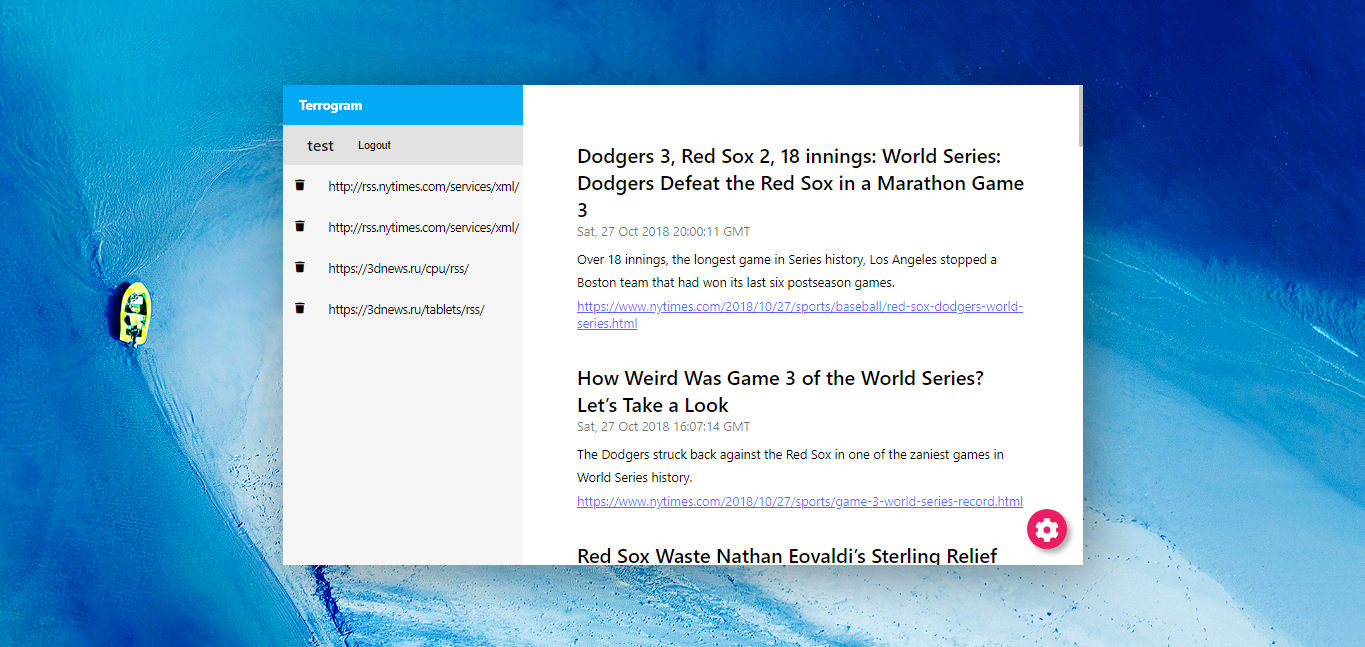
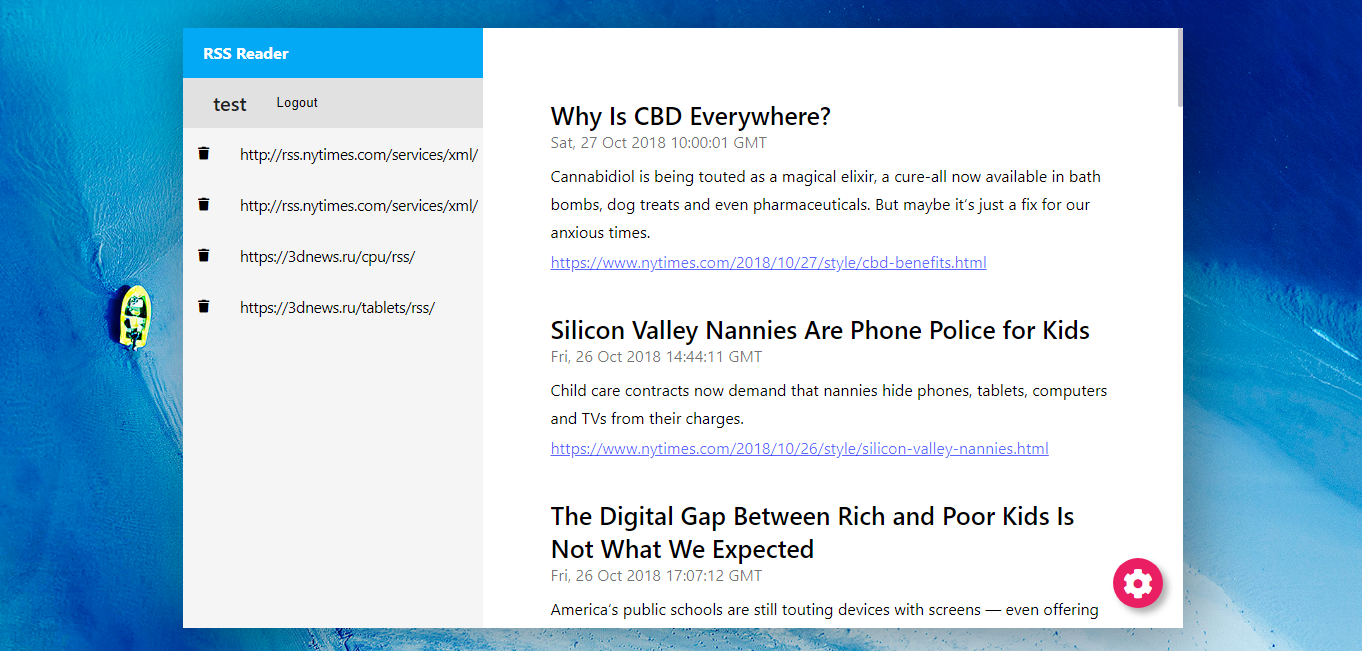
Добавлена страница с описанием в папку docs, изменен readme.md

diff --git a/docs/index.html b/docs/index.html
@@ -1,0 +1,155 @@
+<!doctype html>
+<html lang="ru">
+<head>
+    <meta charset="UTF-8">
+    <meta name="viewport"
+          content="width=device-width, user-scalable=no, initial-scale=1.0, maximum-scale=1.0, minimum-scale=1.0">
+    <meta http-equiv="X-UA-Compatible" content="ie=edge">
+    <link href="https://fonts.googleapis.com/css?family=Roboto:100,100i,300,300i,400,400i,500,500i,700,700i,900,900i&amp;subset=cyrillic" rel="stylesheet">
+    <link href="https://fonts.googleapis.com/css?family=Roboto+Slab:100,300,400,700|Roboto:100,100i,300,300i,400,400i,500,500i,700,700i,900,900i&amp;subset=cyrillic" rel="stylesheet">
+    <link rel="stylesheet" href="sup-typo/sup-typo.css">
+    <link rel="stylesheet" href="sup-typo/style.css">
+    <title>О RSS ридере</title>
+</head>
+<body>
+
+<a
+        href="#nav"
+        class="sup-typo shadow"
+        style="
+        position: fixed;
+        bottom: 30px;
+        left: 30px;
+        padding: 10px;
+        color: #606060;
+        background-color: rgba(255,255,255,0.45);
+    "
+>
+    К оглавлению
+</a>
+
+<div class="page sup-typo shadow" id="page">
+
+    <small>*Весь синий текст - ссылки</small>
+    <h1 class="title">RSS Reader</h1>
+    <p style="padding-bottom: 0;"><small><b>Команда:</b> Телевизор между главным и 9 корпусом <a href="#Команда"><strong>Фотка телевизора</strong></a></small></p>
+    <h2>Описание проекта на хакатон Tula Hack Junior 2018</h2>
+    <!--<p><a href="#">Ссылка на демо сайт, тут должен быть запущен сервер с проектом-->
+        <!--(можно попробовать сломать, но лучше не нужно (пожалуйста, не ломайте)))</a></p>-->
+
+    <h2 id="nav">Оглавление:</h2>
+    <ol>
+        <li><a href="#Краткое-описание">Краткое описание</a>
+            <ol>
+                <li><a href="#Почему-RSS-Reader"><small>Почему RSS Reader</small></a></li>
+                <li><a href="#Что-за-проект"><small>Что представляет из себя проект</small></a></li>
+            </ol>
+        </li>
+        <li><a href="#Технически">Что технически представляет из себя продукт</a>
+            <ol>
+                <li><a href="#Архитектура"><small>Архитектура</small></a>
+                    <ol>
+                        <li><a href="#Backend"><small>Backend</small></a></li>
+                        <li><a href="#Frontend"><small>Frontend</small></a></li>
+                    </ol></li>
+                <li><a href="#Дизайн"><small>Дизайн</small></a></li>
+            </ol>
+        </li>
+        <li><a href="#Исходный-код">Исходный код</a></li>
+        <li><a href="#Команда">Команда</a></li>
+        <li><a href="#Типографика">О типографике на этой странице</a></li>
+    </ol>
+
+    <h1 id="Краткое-описание">Краткое описание:</h1>
+    <p>На данной странице рассказывается про проект для Tula Hack Junior 2018, представленный командой
+    "Телевизор между главным и 9 корпусом".</p>
+
+    <p class="marked shadow">
+        <b>Важно (если это кто-то вообще прочитает)</b><br />
+        Это наш первый проект подобного размера, поэтому сразу извинимся за код, особенно за работу с БД,
+        обычно мы пишем лучше и делаем меньше запросов)).
+        С Laravel и React мы начали работать буквально за неделю до хакатона и изначально
+        планировали делать какое-либо задание только на PHP, JS, MySQL.
+        <small>(Спойлер: реакт в итоге испльзовался только для анимации)</small>
+    </p>
+
+    <h3 id="Почему-RSS-Reader">Почему RSS Reader?</h3>
+
+    <p>Ответ простой - на хакатоне мы планировали делать web проект (так как
+        ничего другого просто не умели), а DDPlanet самыми первыми выложили задания. Среди них был как раз
+    этот RSS Reader. Взяли его.</p>
+
+    <h3 id="Что-за-проект">Что представляет из себя проект?</h3>
+
+    <p>За хакатон мы смогли написать Mvp - minimum viable product (с большой M!) приложения для
+    чтения RSS лент. Для использования нужно зарегистрироваться (ввести имя и email).
+        В приложении можно добавлять RSS ленты, читать анонсы новостей из них и переходить на страницу с полной новостью
+        (уже на сайте новости).</p>
+
+    <img src="screen1.png">
+
+    <p>Форма добавления (выезжает при клике на красную кнопку настроек):</p>
+
+    <img src="screen2.png">
+
+    <p class="marked shadow"><b>Собственно</b>, из возможностей и практического приминения продукта в жизни это всё.</p>
+
+    <h2 id="Технически">Что технически представляет из себя продукт</h2>
+
+    <p><small>История о том, как код "сейчас напишу пока так, потом исправлю" стал финальной версией</small></p>
+
+    <p>Очень коротко, то продукт - это серверное приложение на Laravel (предоставляет api для
+        авторизированных клиентов для работы с базой данных),
+        базу данных MySQL, Landing Page, который показывается
+        для неавторизированных пользователей и клинтское приложение на JavaScript.</p>
+
+    <h3 id="Архитектура">Архитектура</h3>
+    
+    <p>Для наглядности мы нарисовали полную картину с общей архитектурой проекта</p>
+
+    <img src="arch.png" alt="">
+
+    <h3 id="Backend">Backend</h3>
+
+    <p>На сервере у нас используется PHP фреймворк Laravel, из всего его обилия возможностей
+    мы задействовали только роутинг - роуты для входа, регистрации, api. Все роуты и логика приложения
+        прописаны в файле routes/web.php. Регистрацию и авторизацию
+        пользователей мы вырезали из стандартных форм, сгенерированных
+        Laravel-ем. Для работы с базой данных были использованы статические
+    методы класса DB.</p>
+
+    <p><b>Пример:</b></p>
+    <p>DB::select("SELECT * FROM users WHERE id = ?", [1]);</p>
+    <p>Результатом выполнения будет php массив пользователей с id равным 1. (От SQL инъекций защищено).</p>
+
+    <h3 id="Frontend">Frontend</h3>
+
+    <p>Тут просто куча макаронного кода в файле js/main.js,
+        есть красивая анимация форм для входа и регистрации (на реакте),
+        сюда ещё что-нибудь дописать потом (!)</p>
+
+    <h3 id="Дизайн">Дизайн</h3>
+
+    <p>Целью дизайна было быть похожим на приложение Telegram, открытое не на полный экран на рабочем столе с
+    красивыми обоями</p>
+
+    <p>Вся (Лендинг, приложение, формы) вёрска сделана вручную, использовался css препроцессор scss</p>
+
+    <h3 id="Исходный-код">Исходный код</h3>
+
+    <p>И инструкция по установке находятся
+        <a href="https://github.com/nulnow/tulahack-2018-laravel-react-rss-reader" target="_blank">вот тут</a></p>
+
+    <h2 id="Команда">Команда</h2>
+
+    <img src="tv.jpg" alt="">
+
+    <h2 id="Типографика">Типографике</h2>
+
+    <p><a href="https://github.com/nulnow/sup-typo" target="_blank">Репозиторий с этой типографикой</a></p>
+
+</div>
+
+
+</body>
+</html>

diff --git a/resources/views/app.blade.php b/resources/views/app.blade.php
@@ -30,7 +30,7 @@
     <button class="app__plus-button" id="plus-button"><span><i class="fas fa-cog"></i></span></button>
     <div class="app__left-bar">
         <div class="app__navbar">
-            Terrogram
+            RSS Reader
         </div>
         <div class="app__navbar app__navbar--tools">
             <span class="tools-button tools-button--username" id="user-button"></span>
@@ -157,62 +157,7 @@
         <input type="url" placeholder="RSS link" class="dashboard-input" id="link-input" autocomplete="off" required>
         <button class="dashboard-button">Add link</button>
     </form>
-    <p>Lorem ipsum dolor sit amet, consectetur adipisicing elit. Dolores eligendi eveniet laboriosam odio officiis?
-        Alias aliquam architecto corporis ducimus eaque earum, harum ipsa, quam rem sapiente sint tempora voluptate
-        voluptates.</p>
-    <p>A alias aliquid architecto deleniti, distinctio, dolor dolores expedita explicabo itaque quam quo, ratione
-        repellendus sapiente tempore tenetur totam voluptatem. Accusamus ad rerum temporibus! Impedit ipsam nostrum quod
-        repellat sed.</p>
-    <p>Animi aspernatur at aut corporis cumque doloremque eaque error esse et ex exercitationem fugit impedit iste
-        magnam magni maxime natus praesentium qui, quisquam sequi tempora unde ut veritatis voluptatem voluptatibus.</p>
-    <p>Accusantium, ducimus ipsam maxime odio quos repellat voluptate voluptates. Aspernatur dignissimos doloribus enim
-        saepe sint ullam veniam. Amet corporis dolores ea, laborum mollitia, natus non nostrum quis quisquam totam
-        unde.</p>
-    <p>Architecto cupiditate fugit neque repudiandae voluptas. Adipisci alias culpa debitis dicta dolore doloremque
-        earum eligendi esse et eum eveniet explicabo, laborum libero modi necessitatibus quae quaerat quos repellat
-        repellendus saepe!</p>
-    <p>Alias amet aperiam corporis ea officia optio rem? At autem blanditiis debitis dolore dolores ducimus incidunt,
-        iusto laboriosam maxime minus nobis perferendis quae quaerat recusandae reiciendis reprehenderit sapiente
-        voluptatum! Amet?</p>
-    <p>Ad, animi dolorum earum esse illum in ipsa laboriosam nam, odio quae recusandae suscipit totam ullam. Consectetur
-        cupiditate fuga nobis numquam saepe? Consectetur dicta ea omnis porro quia temporibus veritatis!</p>
-    <p>A beatae culpa cum debitis dolore doloribus, eaque facere ipsam itaque maiores maxime nesciunt, nihil nobis non
-        perspiciatis praesentium quisquam quod recusandae reprehenderit repudiandae sunt temporibus tenetur totam vel
-        voluptatum!</p>
-    <p>Aspernatur illo provident sapiente. Adipisci aliquid aperiam atque commodi debitis delectus doloremque, eveniet
-        explicabo, fugiat illo ipsa laudantium minima nemo nesciunt officiis optio porro, provident quae quasi repellat
-        sit voluptates!</p>
-    <p>Aperiam eos esse laborum nihil obcaecati quam. Aperiam assumenda aut blanditiis cupiditate debitis deserunt
-        dolore doloribus eius eum expedita incidunt laborum, repellat sed sequi tempore voluptas voluptate, voluptatem
-        voluptatibus voluptatum.</p>
-    <p>Illum iste iure sunt vero voluptate voluptatibus? A accusamus aspernatur commodi dolorem fugiat in itaque
-        laudantium nostrum omnis quia quisquam quod, ratione velit. Asperiores assumenda eveniet ipsum iusto minima
-        vel!</p>
-    <p>Omnis quibusdam quis reprehenderit. Itaque minima, natus perferendis perspiciatis sit vero. A ad dolore
-        doloribus, est et eum facere facilis impedit labore magni numquam reiciendis repellendus reprehenderit saepe
-        tenetur voluptates.</p>
-    <p>Accusamus aspernatur aut, dicta doloremque dolores, doloribus illo minus modi nobis non pariatur quibusdam
-        reiciendis sint tempora, totam ut voluptas voluptate? Dolorem eligendi explicabo nisi obcaecati perspiciatis!
-        Cumque eligendi, illum.</p>
-    <p>Excepturi incidunt laboriosam modi nulla quo reiciendis reprehenderit repudiandae rerum temporibus vitae?
-        Asperiores assumenda atque blanditiis eos molestiae pariatur, repellendus vel vitae voluptatum. Excepturi
-        laboriosam porro, tempora ullam velit veritatis.</p>
-    <p>Excepturi magnam omnis placeat? Dolorum iusto mollitia obcaecati optio placeat? Assumenda commodi ipsa, iure nisi
-        velit vero voluptate voluptatibus. Aliquam ea impedit incidunt ipsam omnis repellat repellendus rerum tenetur
-        velit.</p>
-    <p>Architecto aut blanditiis cum cumque, distinctio ducimus hic illo illum ipsa iure labore minus modi perferendis
-        placeat quaerat quasi quo saepe voluptatibus. A, ad deserunt expedita magni maiores reprehenderit vel!</p>
-    <p>Animi, autem debitis dignissimos dolore, doloremque dolorum, esse eveniet inventore modi necessitatibus nostrum
-        omnis quas quia soluta ut voluptas voluptatibus. Amet assumenda consequuntur dolores facilis impedit itaque
-        nulla porro quam!</p>
-    <p>Accusantium debitis facilis id inventore iure magni minima nihil nisi nobis, quibusdam. Aliquam architecto minus
-        modi nisi, quam tempora temporibus voluptas. Amet architecto dolorum ea earum in nisi provident sit.</p>
-    <p>Architecto assumenda culpa cumque, distinctio eaque eos error fugit hic illo laboriosam modi natus numquam
-        officia omnis perferendis quasi, quia quo repudiandae similique sunt suscipit tenetur totam velit voluptas
-        voluptatibus.</p>
-    <p>Dolor, impedit, neque! Atque maiores quas reiciendis. Blanditiis illum in, minus obcaecati perspiciatis provident
-        sed sunt. Assumenda consequuntur excepturi explicabo fugiat incidunt labore maiores nihil nobis nulla, quaerat
-        quis tenetur.</p>
+    <p>Тут можно добавить ещё всяких элементов управления или написать документацию, помощь, справку, лицензию и тд</p>
 </div>
 
 <script src="https://cdnjs.cloudflare.com/ajax/libs/jquery/3.3.1/jquery.min.js"></script>

diff --git a/readme.md b/readme.md
@@ -1,27 +1,17 @@
 
 # RSS reader (react + laravel)
-## Весь проект - это хотфикс, обычно я так не пишу, честно)))))
+### Проект на хакатон Tula Hack 2018
+### от команды "Телевизор между главным и 9 корпусом"
 
 
 #### Краткое описантие:
 
-Есть плохой лендинг, плохая регистрация и авторизация, есть красивый 
-дизайн приложения, есть JS клиент, который умеет работать с api (кривым)
-сервера (а изменить мы не можем, тк у нас уже клиент под него написан)
-))))))))
-сервер авторизует пользователя, если он залогинен, открывает доступ 
-к api  Api позволяет получить писок своих лент, получить новости по id
-своей ленты (можно получить новости только оп тем лентам, которые
-есть у пользователя), можно удалить ленту (отвязать от пользователя
-в бд, сама лента в бд осанется), можно добавлять ленту, сервер
-проверит если такая лента уже имеется (url), то просто привяжет
-к пользователю её в таблицу много ко многим, js клиент может
-отвязать от себя ленту по её id  Текущий клиент написан на 
-чистом JS, умеет добавлять ссылки, выводить новости ссылок, 
-анимации ещё крутые есть
+Для использования нужно зарегистрироваться (ввести имя и email).
+В приложении можно добавлять RSS ленты, читать анонсы новостей из них и переходить на страницу с полной новостью
+(уже на сайте новости)
 
 #### Для установки:
-(Необходимо наличие на компьютере php 7.1+, MySQL, Node js, npm)
+(Необходимо наличие на компьютере php 7.1+, composer, MySQL, Node js, npm)
 ```
 git clone https://github.com/nulnow/tulahack-2018-laravel-react-rss-reader
 cd tulahack-2018-laravel-react-rss-reader
@@ -29,8 +19,6 @@ composer install
 npm install
 php artisan key:generate
 ```
-
-Создать таблицу в базе MySQL
 
 Создать в корне проекта файл .env и поместить туда следующее
 и вставить сюда свои данные для подключения к бд:
